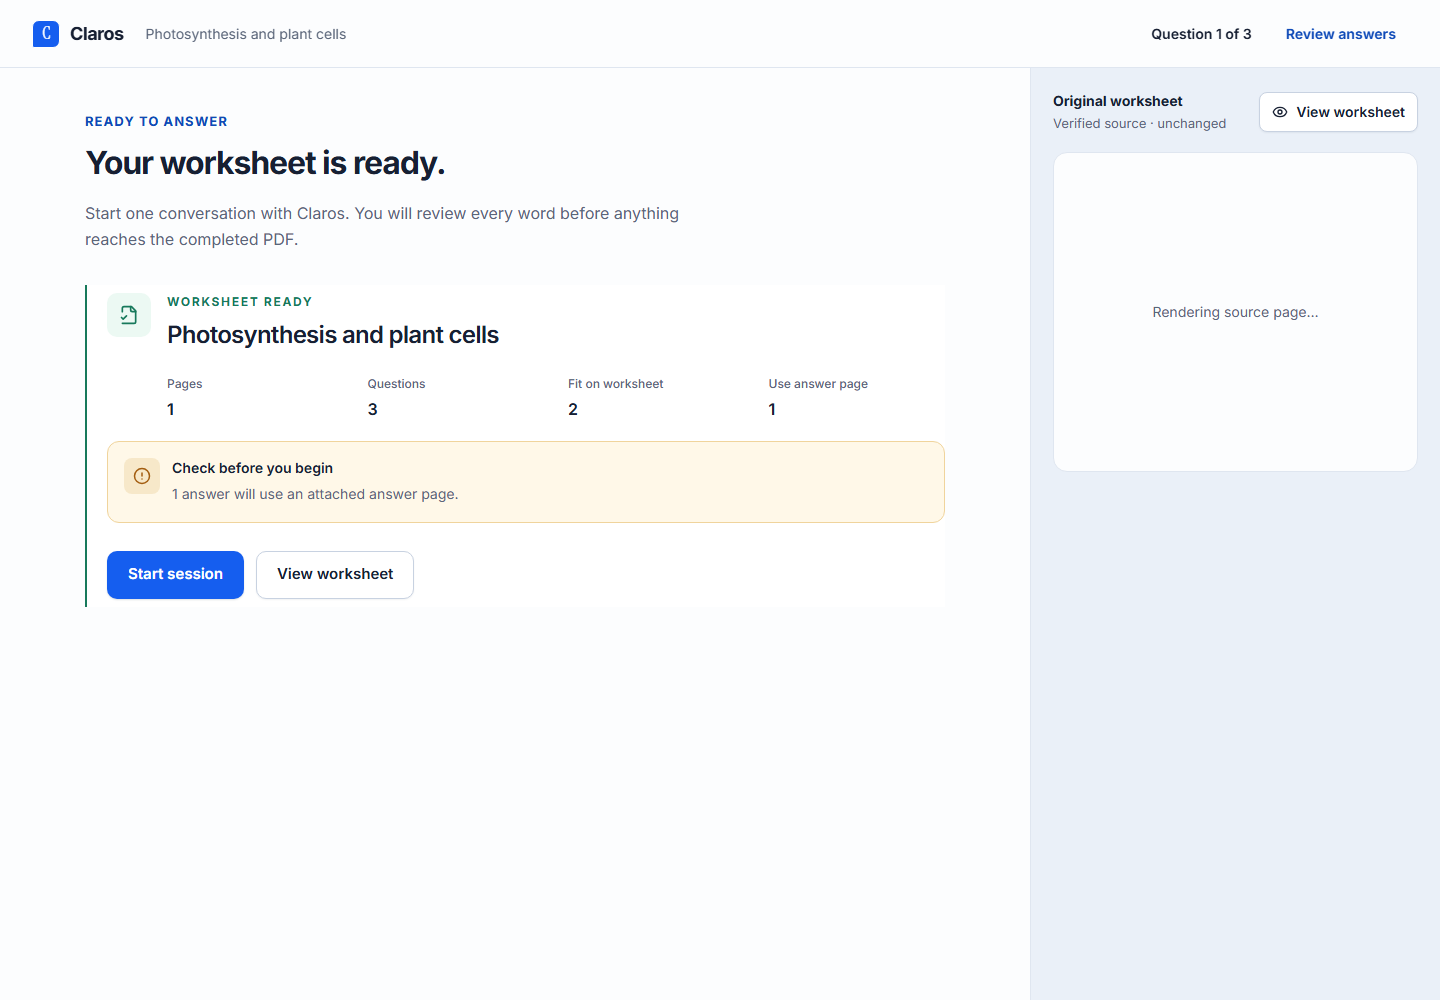
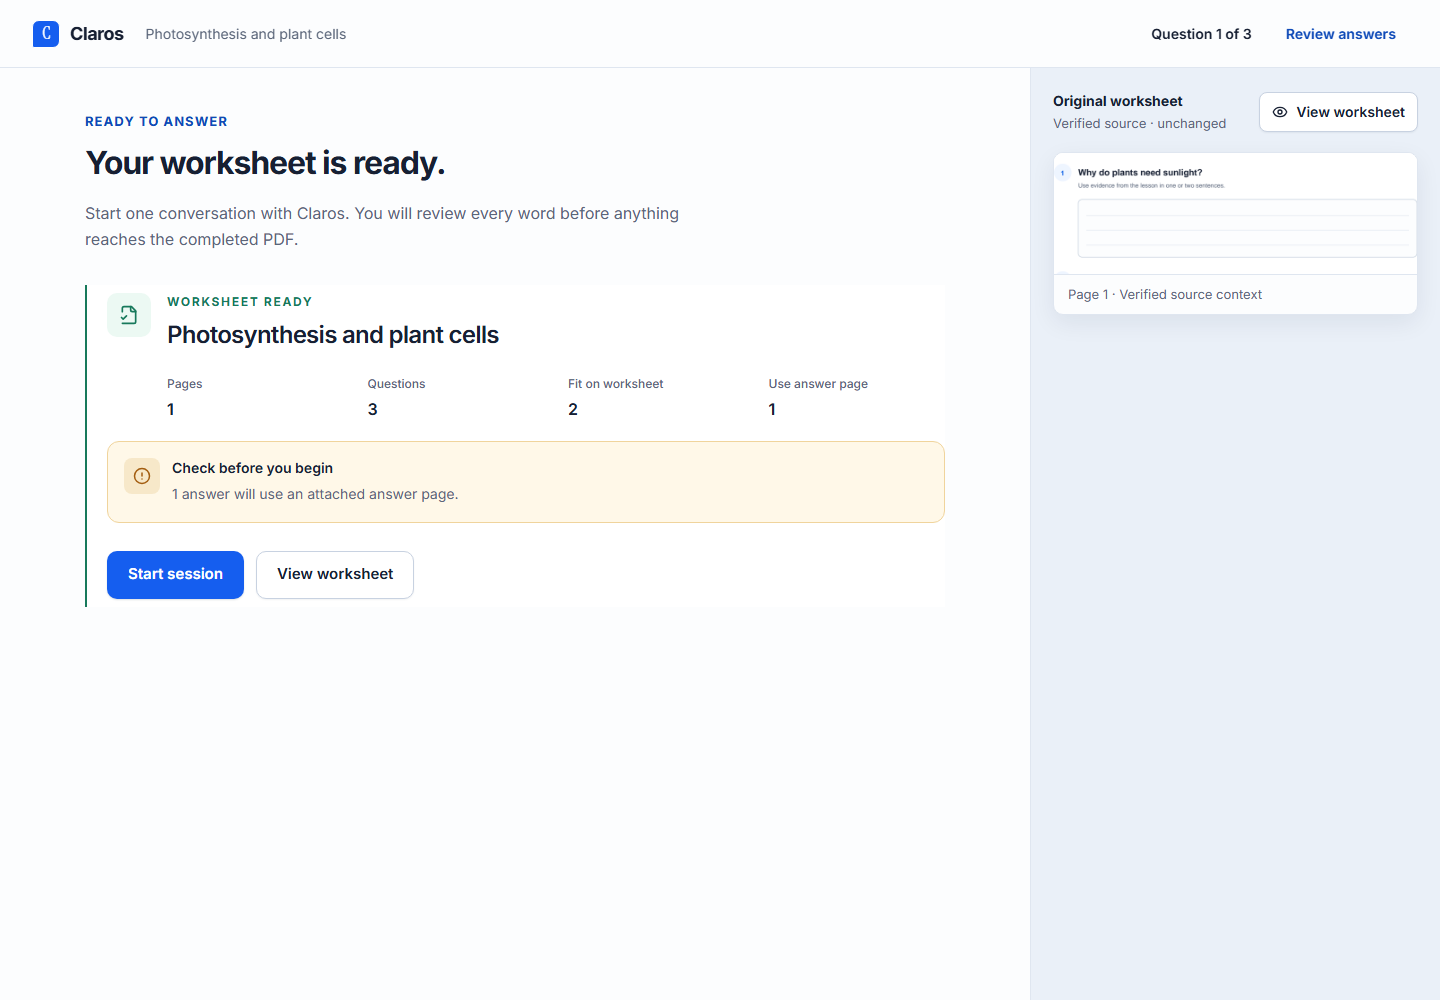
test(visual): stabilize ready-state evidence

Changed region(s): [[0.7188, 0.279, 1.0, 0.341], [0.75, 0.155, 0.8438, 0.186]]

diff --git a/artifacts/v2/frontend-redesign/IMPLEMENTATION_REPORT.md b/artifacts/v2/frontend-redesign/IMPLEMENTATION_REPORT.md
@@ -3,9 +3,11 @@
 - **Branch:** `codex/claros-v2-nerdy`
 - **Baseline:** `cea7ee164a137d7c7cec2f0016632be2070bc9c0`
 - **Feature implementation checkpoint:** `42574782016a8c870c0943eaf3d3f8a39baff807`
-- **Corrected implementation checkpoint:** `fec63d2ae5a1535e41fb9b70078840e5f29bb0e4`
+- **Frontend implementation checkpoint:** `fec63d2ae5a1535e41fb9b70078840e5f29bb0e4`
+- **Final capture-harness checkpoint:** `6a2d9f6910bef71221f381b13ac18be00a3224fa`
 - **Independent review:** first pass closed authority/evidence/debris findings;
-  second pass requested exact-review DOM ordering; final-candidate review pending
+  second pass closed exact-review ordering; third pass requested a deterministic
+  ready-state source wait; final-candidate review pending
 - **Date:** 2026-09-13
 
 ## Outcome
@@ -129,8 +131,12 @@ The corrected implementation repeated the complete `npm run ci`, full browser,
 visual-check, 49-image capture, dependency audit, and strict OpenSpec verification
 after moving exact review before the secondary transcript in visual, DOM, keyboard,
 and screen-reader order. A focused regression test covers the review-plus-transcript
-state. The tool host uses Node 24 and therefore prints an engine warning; the
-project targets Node 22, and its dependency verifier checks that declared target.
+state. The capture harness now waits for the authentic desktop source crop in the
+named ready state. Two consecutive full captures produced the same ready-state hash,
[1 lines of base64/hex data omitted]
+inspection confirms that the source excerpt—not its transient loader—is present.
+The tool host uses Node 24 and therefore prints an engine warning; the project
+targets Node 22, and its dependency verifier checks that declared target.
 
 ## Authority and semantic boundary
 
